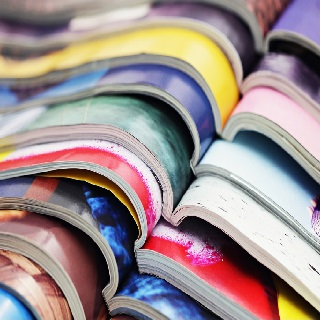
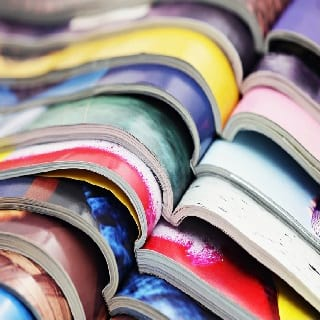
amelioration de la compression des images

diff --git a/style.css b/style.css
@@ -839,7 +839,7 @@ h4 {
 }
 
 .bg-presentation {
-    background-image: url("img/image-de-presentation.bmp");
+    background-image: url("img/image-de-presentation.jpg");
 }
 
 @media (max-width: 1024px) {
